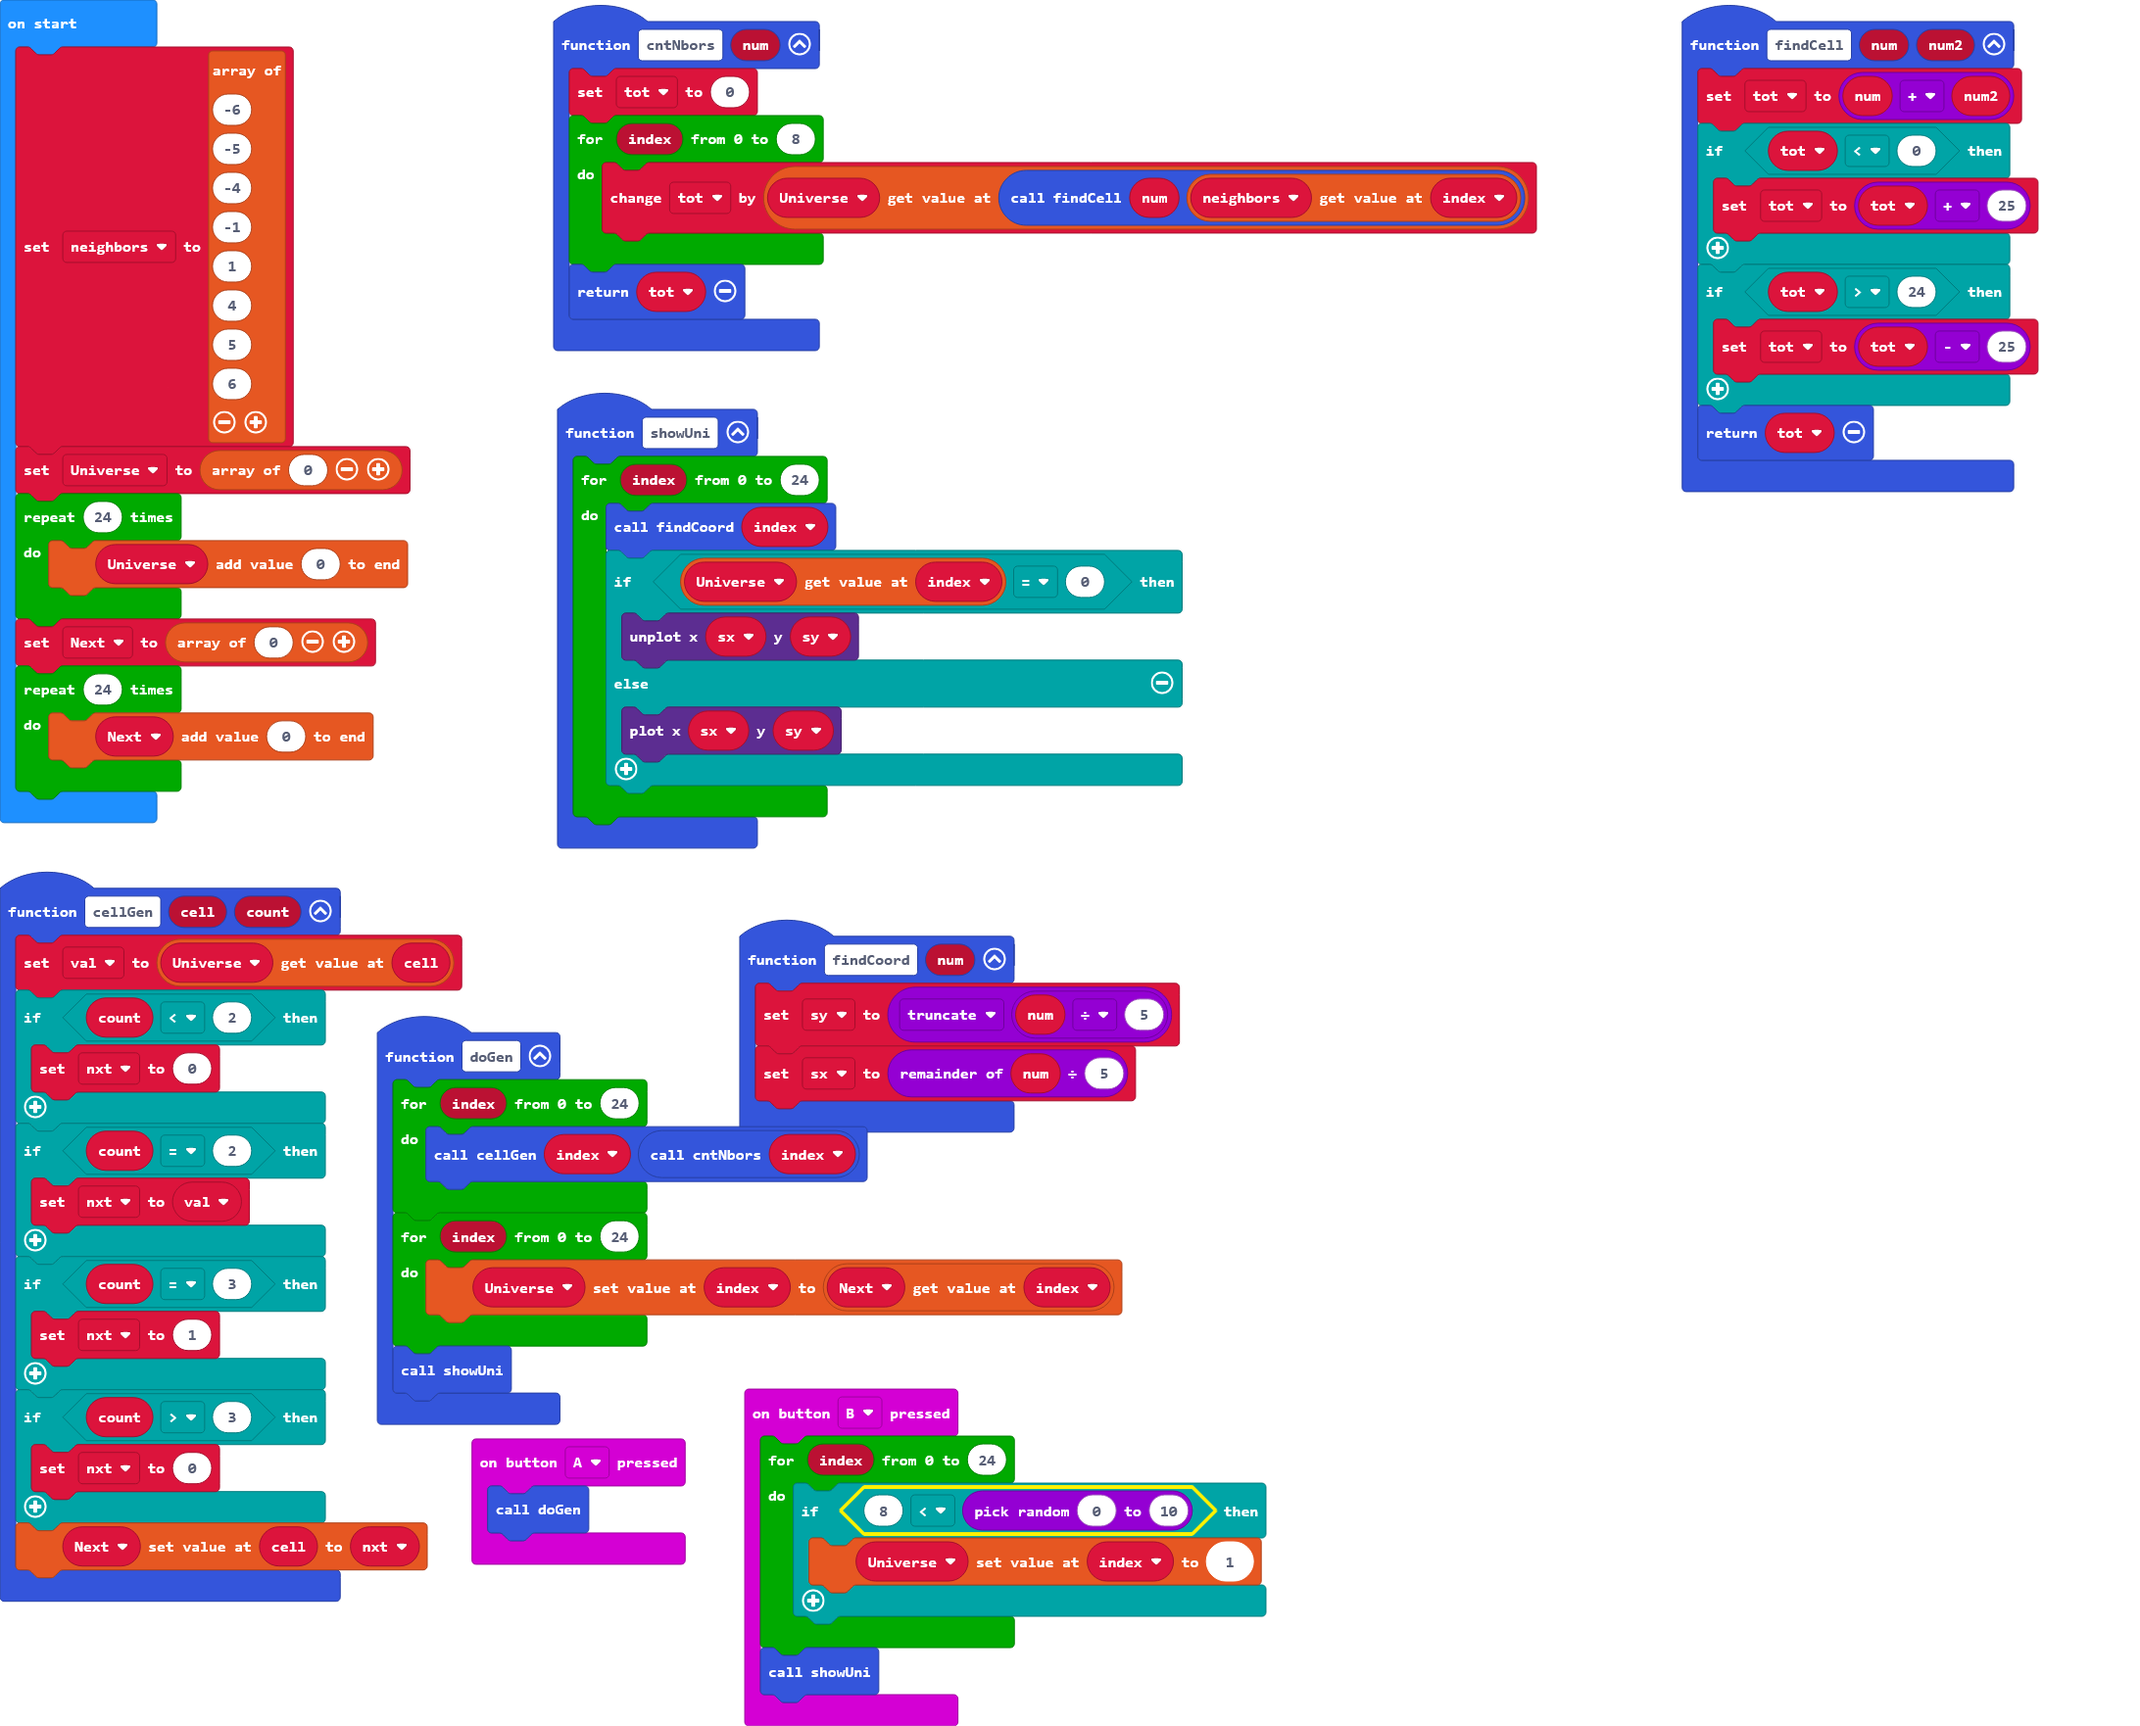
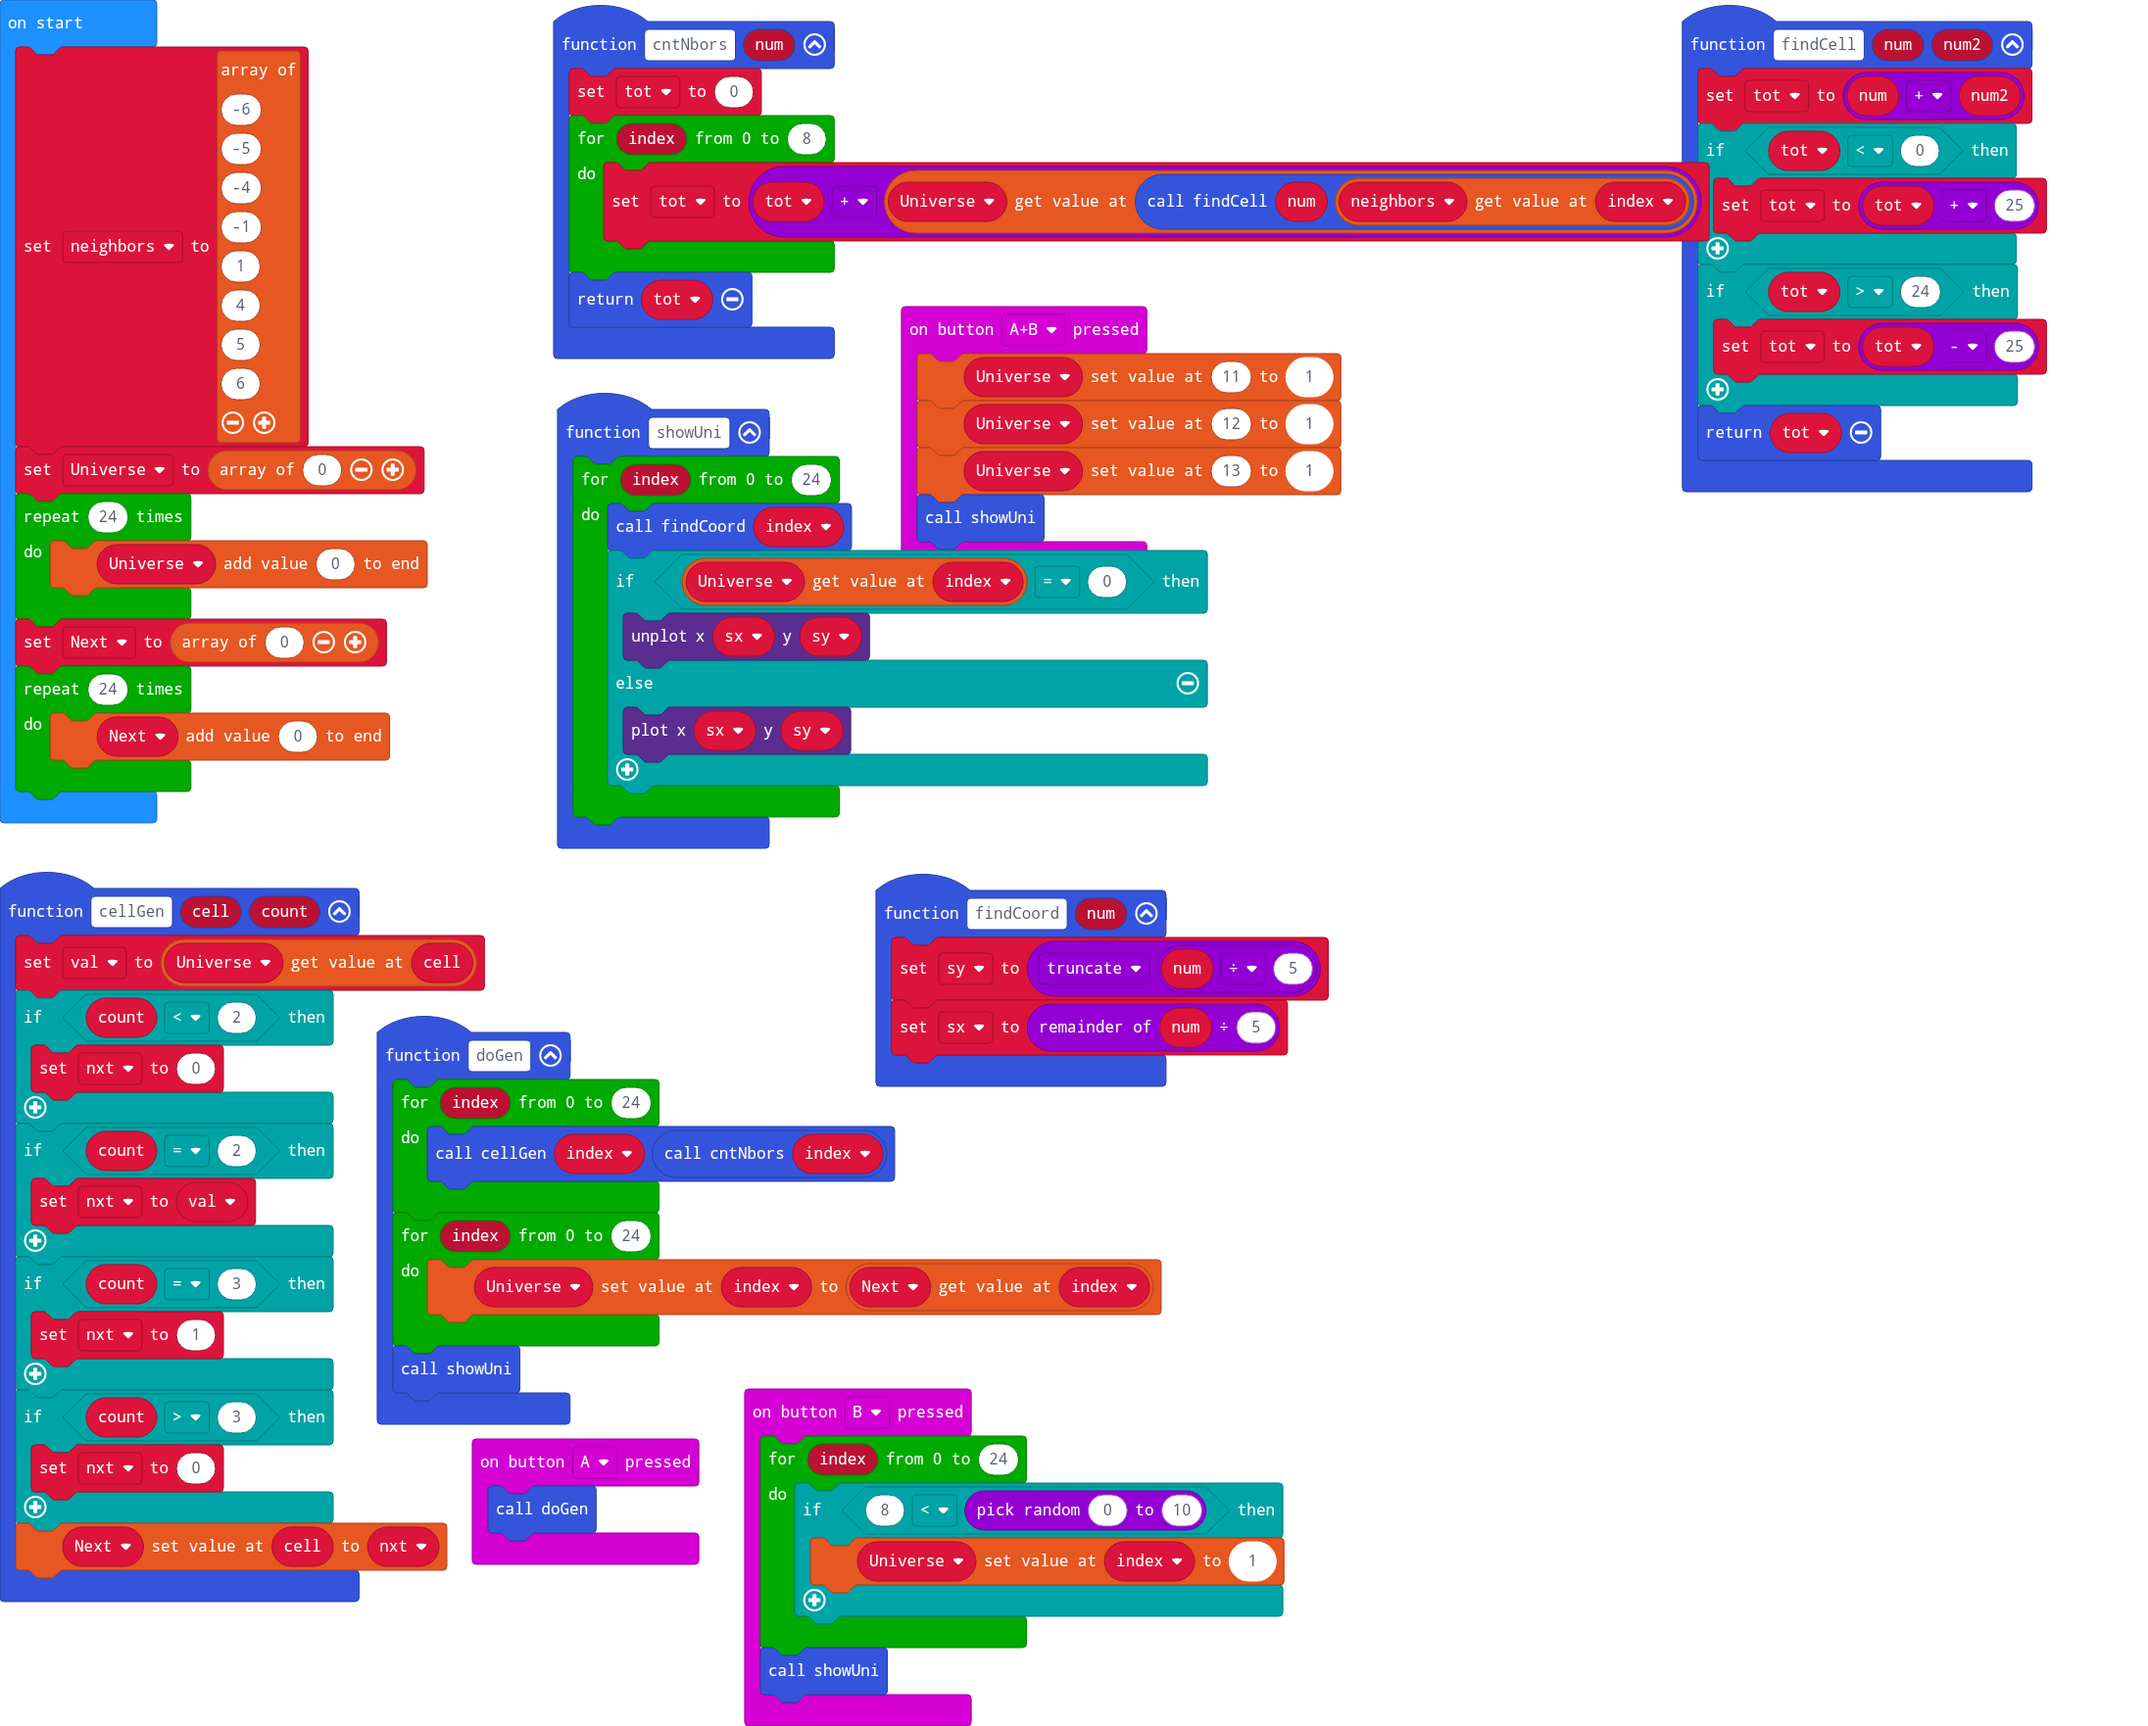
Update main.blocks, main.ts

diff --git a/main.ts b/main.ts
@@ -17,7 +17,7 @@ function cellGen (cell: number, count: number) {
 function cntNbors (num: number) {
     tot = 0
     for (let index = 0; index <= 8; index++) {
-        tot += Universe[findCell(num, neighbors[index])]
+        tot = tot + Universe[findCell(num, neighbors[index])]
     }
     return tot
 }
@@ -52,6 +52,12 @@ function showUni () {
 }
 input.onButtonPressed(Button.A, function () {
     doGen()
+})
+input.onButtonPressed(Button.AB, function () {
+    Universe[11] = 1
+    Universe[12] = 1
+    Universe[13] = 1
+    showUni()
 })
 input.onButtonPressed(Button.B, function () {
     for (let index = 0; index <= 24; index++) {
